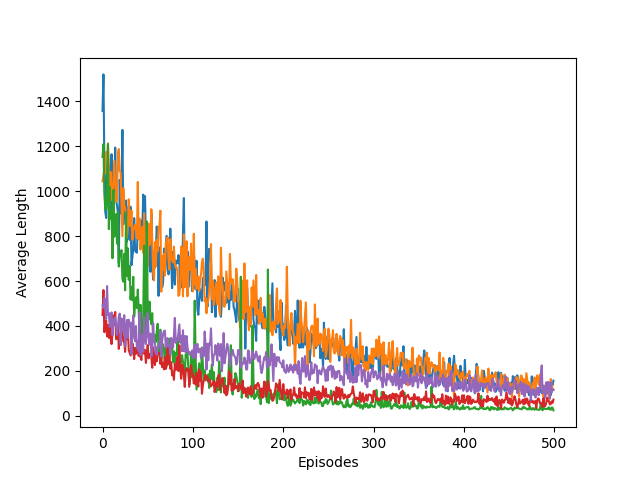
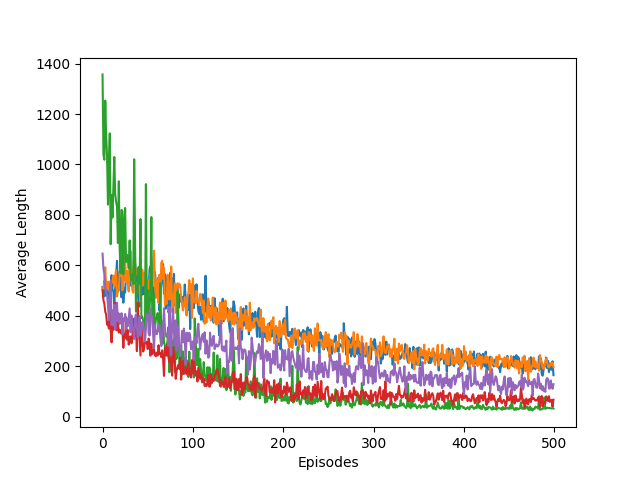
fix: terminal q value to use baseline

diff --git a/MainMultiGoal.py b/MainMultiGoal.py
@@ -25,7 +25,7 @@ def plot_average_length(lengths, filename="mutli_goal_lengths.png"):
     plt.savefig(os.path.join("imgs", filename))
 
 def run_q_learning(env, num_of_episodes):
-    agent = QLearning(env.action_space, gamma=0.99, alpha=0.1, epsilon=0.1)
+    agent = QLearning(env.action_space, gamma=0.99, alpha=0.1, epsilon=0.1, q_baseline=1)
     episode_lengths = np.zeros(num_of_episodes)
     for episode in range(num_of_episodes):
         state = env.reset()
@@ -34,14 +34,14 @@ def run_q_learning(env, num_of_episodes):
         while not done:
             action = agent.sample_action(state)
             next_state, reward, done = env.step(action)
-            agent.learn(state, action, reward, next_state)
+            agent.learn(state, action, reward, next_state, done)
             state = next_state
             episode_length += 1
         episode_lengths[episode] = episode_length
     return episode_lengths
 
 def run_sarsa(env, num_episodes):
-    agent = Sarsa(env.action_space, gamma=0.99, alpha=0.1, epsilon=0.1)
+    agent = Sarsa(env.action_space, gamma=0.99, alpha=0.1, epsilon=0.1, q_baseline=1)
     episode_lengths = np.zeros(num_episodes)
     for episode in range(num_episodes):
         state = env.reset()
@@ -51,7 +51,7 @@ def run_sarsa(env, num_episodes):
         while not done:
             next_state, reward, done = env.step(action)
             next_action = agent.sample_action(next_state)
-            agent.learn(state, action, reward, next_state, next_action)
+            agent.learn(state, action, reward, next_state, next_action, done)
             state = next_state
             action = next_action
             episode_length += 1

diff --git a/agents/sarsa.py b/agents/sarsa.py
@@ -30,7 +30,10 @@ class Sarsa:
     
     def get_q_value(self, state, action):
         return self.q_values.get((state, action), self.q_baseline)
-        
-    def learn(self, state, action, reward, next_state, next_action):
-        td_error = reward + self.gamma * self.get_q_value(next_state, next_action) - self.get_q_value(state, action)
+            
+    def learn(self, state, action, reward, next_state, next_action, done):
+        if done:
+            td_error = reward - self.get_q_value(state, action)
+        else:
+            td_error = reward + self.gamma * self.get_q_value(next_state, next_action) - self.get_q_value(state, action)
         self.q_values[(state, action)] = self.get_q_value(state, action) + self.alpha * td_error

diff --git a/agents/q_learning.py b/agents/q_learning.py
@@ -31,6 +31,9 @@ class QLearning:
                 max_action.append(action)
         return random.choice(max_action)
 
-    def learn(self, state, action, reward, next_state):
-        td_error = reward + self.gamma * self.get_q_value(next_state, self.argmax(next_state)) - self.get_q_value(state, action)
+    def learn(self, state, action, reward, next_state, done):
+        if done:
+            td_error = reward - self.get_q_value(state, action)
+        else:
+            td_error = reward + self.gamma * self.get_q_value(next_state, self.argmax(next_state)) - self.get_q_value(state, action)
         self.q_values[(state, action)] = self.get_q_value(state, action) + self.alpha * td_error
